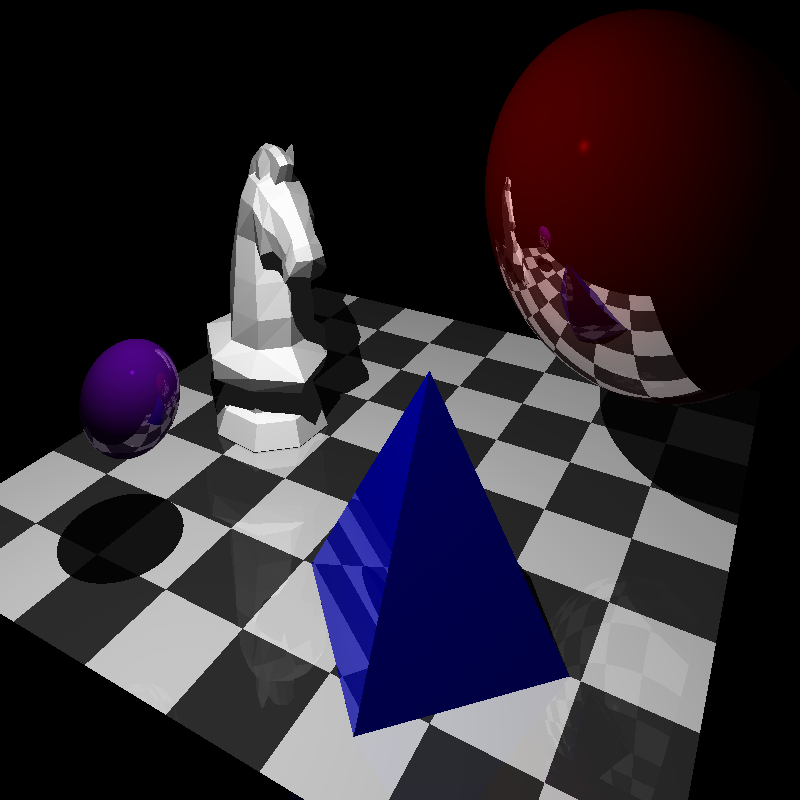
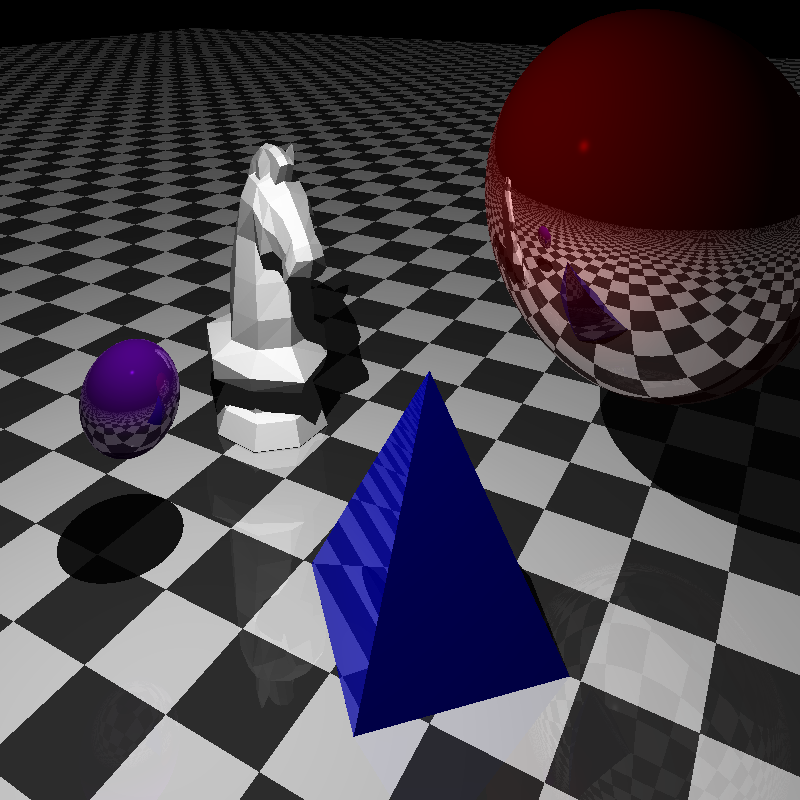
[FEAT]: Made an infinite ground

diff --git a/scene.py b/scene.py
@@ -120,7 +120,7 @@ class Scene:
             Sphere(center=(-1.5, 0, 0), radius=0.5, color=(112, 8, 191), specular=500, reflective = 0.3),
         ]
         self.walls = [
-            Wall(center=(0, -1.6, 3), normal=(0, 1, 0), width=8, height=8, 
+            Wall(center=(0, -1.6, 3), normal=(0, 1, 0), width=100, height=100, 
                 color=(255, 255, 255), specular=1000, reflective=0.1, checkered=True),
         ]
 
